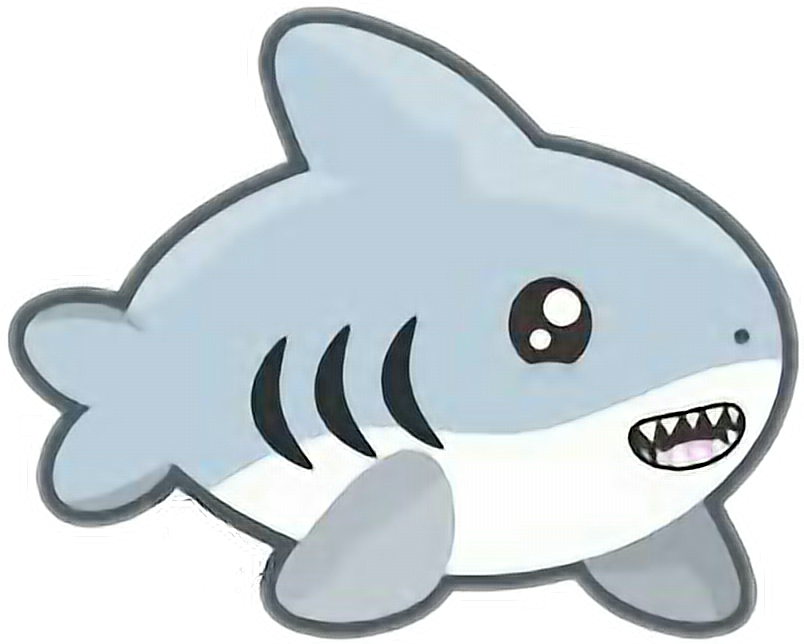
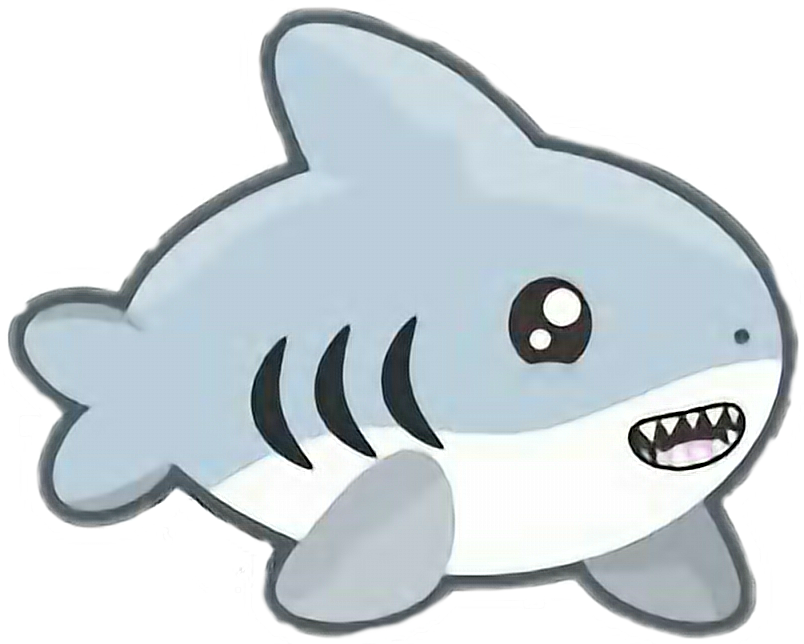
better jump/fall animations
- including new images
- some bug fixes llol

diff --git a/gamevisuals.py b/gamevisuals.py
@@ -77,6 +77,8 @@ class Player(InstructionGroup):
         super(Player, self).__init__()
         self.pos = (PLAYER_X-PLAYER_WIDTH, GROUND_Y)
         self.texture = Image('img/shark.png').texture
+        self.jump_texture = Image('img/shark_jump.png').texture
+        self.fall_texture = Image('img/shark_fall.png').texture
         self.glow_color = Color(1,1,1)
         self.add(self.glow_color)
         self.rect = Rectangle(pos=self.pos, size=(PLAYER_WIDTH, PLAYER_HEIGHT), texture=self.texture)
@@ -126,11 +128,13 @@ class Player(InstructionGroup):
             self.jump_anim = KFAnim((0,current_y), (0.25, slow_down_y_1), 
                                     (0.35, slow_down_y_2), (0.5, slow_down_y_3), (0.6, max_y))
             self.fall_on = False
+            self.rect.texture = self.jump_texture
 
     def on_fall(self):
         self.dt = 0
         self.jump_anim = None
         self.fall_on = True
+        self.rect.texture = self.fall_texture
 
     def toggle_glow(self, glow):
         self.glow = glow
@@ -161,6 +165,7 @@ class Player(InstructionGroup):
             if collision:
                 self.fall_on = False
                 self.fall_vel = np.array((0, 0), dtype=np.float)
+                self.rect.texture = self.texture
             elif self.get_pos()[1] > GROUND_Y and not self.jump_anim:
                 self.on_fall()
 
@@ -172,8 +177,9 @@ class Player(InstructionGroup):
         powerup = self.listen_collision_powerup(self)  # powerups
         return True        
 
-    def set_texture(self, new_texture):
-        self.rect.texture = Image(new_texture).texture
+    def set_textures(self, new_textures):
+        self.texture, self.jump_texture, self.fall_texture = [Image(new_texture).texture for new_texture in new_textures]
+        self.rect.texture = self.texture
 
 
 ##
@@ -500,6 +506,7 @@ class MainProgressBar(InstructionGroup):
         self.glow_dt = 0
         self.glow = False
         self.inside_color.b = 0
+        self.trigger_glow_listener(self.glow)
 
     def reset_song_frame(self, next_song_frame, next_song_length):
         self.song_frame = next_song_frame
@@ -937,7 +944,7 @@ class GameDisplay(InstructionGroup):
         for powerup in self.powerups:
             powerup.change_speed(self.game_speed)
 
-    def graphics_transition(self, player_texture, ground_texture, block_texture):
+    def graphics_transition(self, player_textures, ground_texture, block_texture):
         """
         Handler for song-to-song transitions.
         Updates player object, resets song progress bar, and resets game speed.
@@ -946,7 +953,7 @@ class GameDisplay(InstructionGroup):
             ground_texture (texture): new texture for the ground
             block_texture  (texture): new texture for the blocks
         """
-        self.player.set_texture(player_texture)
+        self.player.set_textures(player_textures)
         self.ground.set_texture(ground_texture)
         self.background.change()
         self.block_texture = block_texture

diff --git a/transition.py b/transition.py
@@ -3,7 +3,7 @@ SONG_DATA_FILES = [("data/babyshark_blocks.txt", "data/babyshark_powerups.txt"),
                     ("data/closer_blocks.txt", "data/closer_powerups.txt"),
                     ("data/migente_blocks.txt", "data/migente_powerups.txt")]
 
-PLAYER_IMAGES = ["img/shark.png","img/lizard.png", "img/eagle.jpg"]
+PLAYER_IMAGES = [["img/shark.png", "img/shark_jump.png","img/shark_fall.png"],["img/dinosaur.png","img/dinosaur_jump.png","img/dinosaur_fall.png"], ["img/bird.png","img/bird_jump.png","img/bird_fall.png"]]
 BLOCK_IMAGES = ["img/wav.png", "img/brick.jpg", "img/cloud.png"]
 GROUND_IMAGES = ["img/sand.png", "img/grass.jpg", "img/blank.png"]
 
@@ -25,7 +25,7 @@ class GameData(object):
         self.audio_file_name = AUDIO_FILES[0]
         self.song_data_files = SONG_DATA_FILES[0]
 
-        self.player_image = PLAYER_IMAGES[0]
+        self.player_images = PLAYER_IMAGES[0]
         self.block_image = BLOCK_IMAGES[0]
         self.ground_image = GROUND_IMAGES[0]
 
@@ -33,7 +33,7 @@ class GameData(object):
         self.level += 1
         self.audio_file_name = AUDIO_FILES[self.level]
         self.song_data_files = SONG_DATA_FILES[self.level]
-        self.player_image = PLAYER_IMAGES[self.level]
+        self.player_images = PLAYER_IMAGES[self.level]
         self.block_image = BLOCK_IMAGES[self.level]
         self.ground_image = GROUND_IMAGES[self.level]
 

diff --git a/audio.py b/audio.py
@@ -282,17 +282,17 @@ class Song(object):
         return self.wave_gen.get_length()
 
     def set_sampling_on_frame(self, frame):
-        self.sample_on_frame = frame
+        self.sampler_on_frame = frame
 
     def set_sampling_off_frame(self, frame):
-        if self.sample_on_frame:
-            self.sample_off_frame = frame
-            self.sampler = SpeedModulator(WaveGenerator(WaveBuffer(self.audio_file, self.sample_on_frame,self.get_frame() - self.sample_on_frame), loop=True),speed=self.get_speed())
+        if self.sampler_on_frame:
+            self.sampler_off_frame = frame
+            self.sampler = SpeedModulator(WaveGenerator(WaveBuffer(self.audio_file, self.sampler_on_frame,self.get_frame() - self.sampler_on_frame), loop=True),speed=self.get_speed())
             self.sampler.set_gain(self.get_gain())
 
     def reset_sample(self):
         self.sampler = None
-        self.sample_on_frame, self.sample_off_frame = 0, 0
+        self.sampler_on_frame, self.sampler_off_frame = 0, 0
 
     def generate(self, num_frames, num_channels):
         # if sampling on, you still want to generate from main song, to keep it playing. just don't return it.

diff --git a/beatrunner_main.py b/beatrunner_main.py
@@ -81,7 +81,7 @@ class MainWidget(BaseWidget) :
         self.audio_manager.start_transition_song(self.game_data.audio_file_name)
         self.song_data.read_data(*self.game_data.song_data_files, self.lifetime)  ## transition
         self.audio_manager.end_transition_song()
-        self.game_display.graphics_transition(self.game_data.player_image, self.game_data.ground_image,
+        self.game_display.graphics_transition(self.game_data.player_images, self.game_data.ground_image,
                                         self.game_data.block_image)
 
     def on_update(self) :
